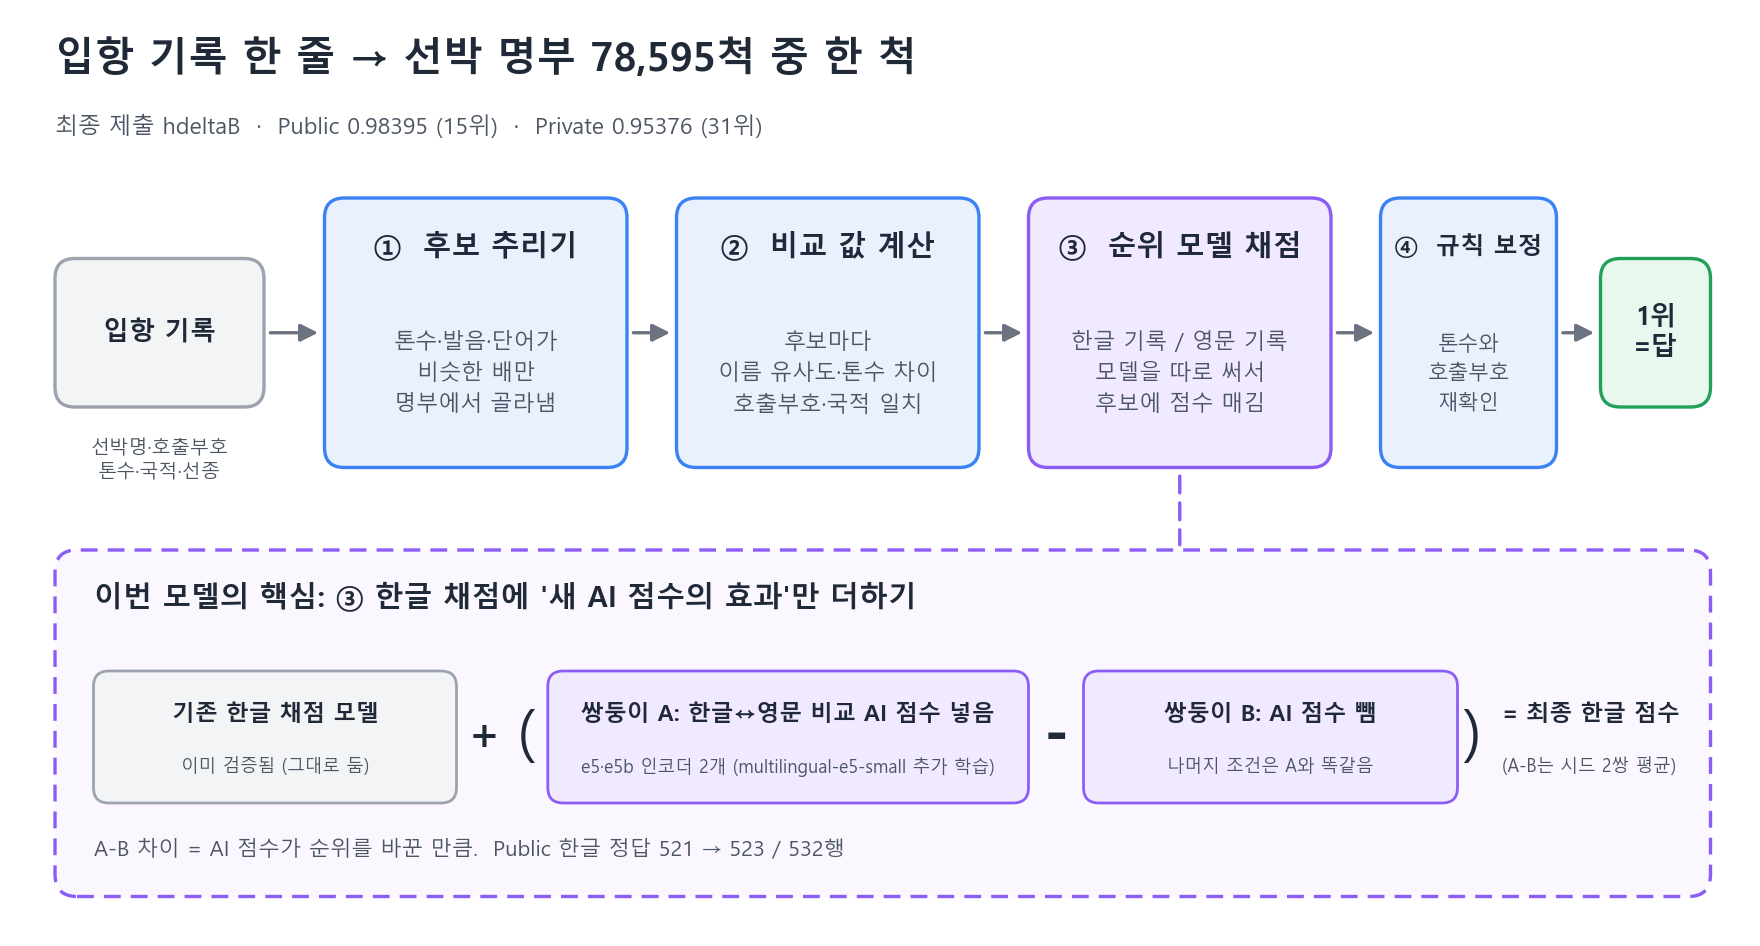
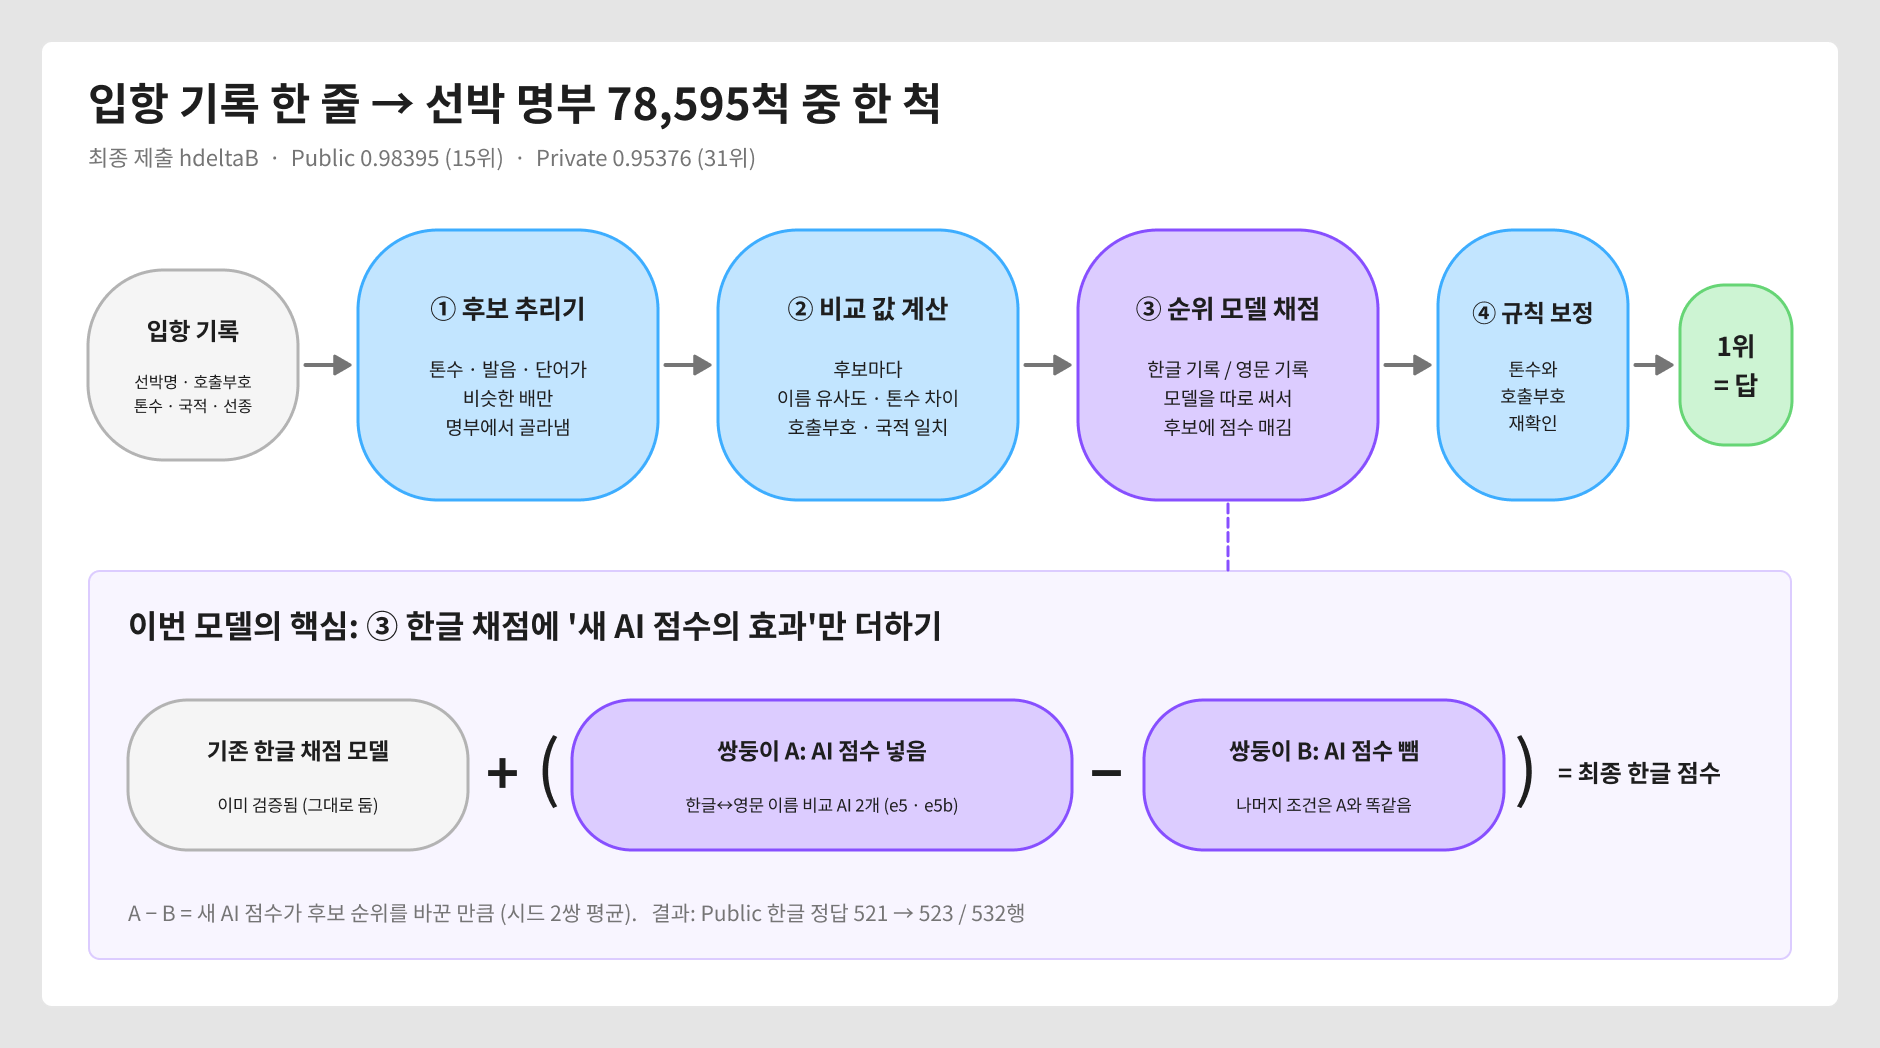
README: 모델 한눈에 보기 도식을 FigJam으로 다시 그림, .omc/ 무시

diff --git a/README.md b/README.md
@@ -31,7 +31,7 @@ DACON [항만 문제해결을 위한 AI 기술 공모전](https://dacon.io/compe
 
 ![모델 한눈에 보기](docs/images/model_overview.png)
 
-단계별 상세 도식: [docs/MODEL.md](docs/MODEL.md) (원본 FigJam: <https://www.figma.com/board/7oQbeLVIoMS4t9BKAsl31M>)
+단계별 상세 도식: [docs/MODEL.md](docs/MODEL.md) (원본 FigJam: [이 그림](https://www.figma.com/board/7oQbeLVIoMS4t9BKAsl31M?node-id=11-187), [상세 도식](https://www.figma.com/board/7oQbeLVIoMS4t9BKAsl31M))
 
 ## 폴더 구성
 
